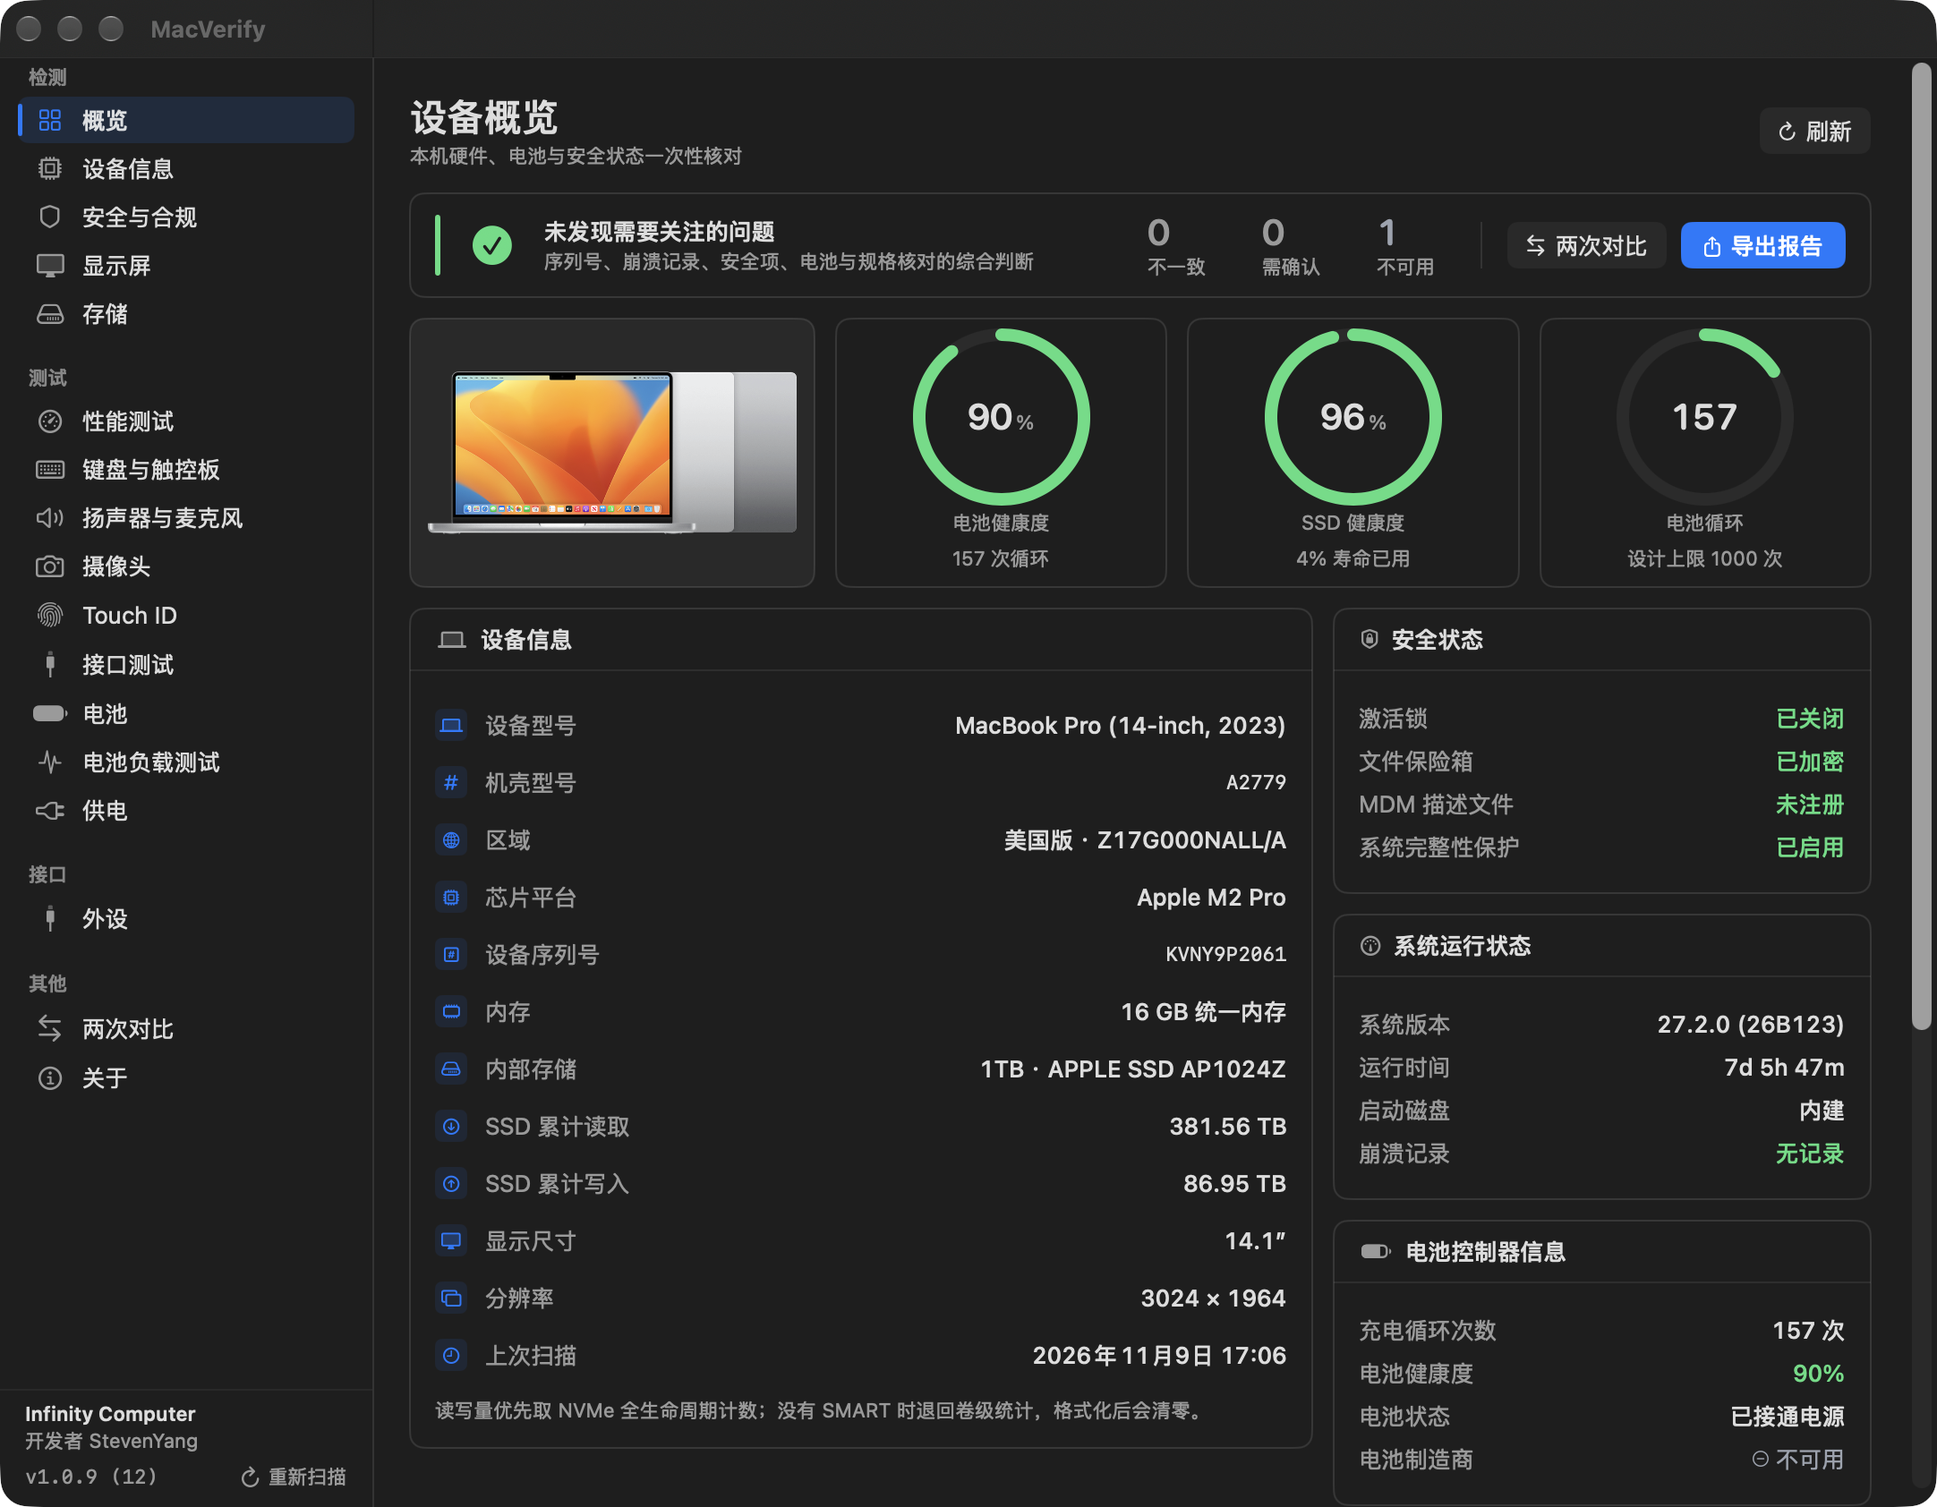
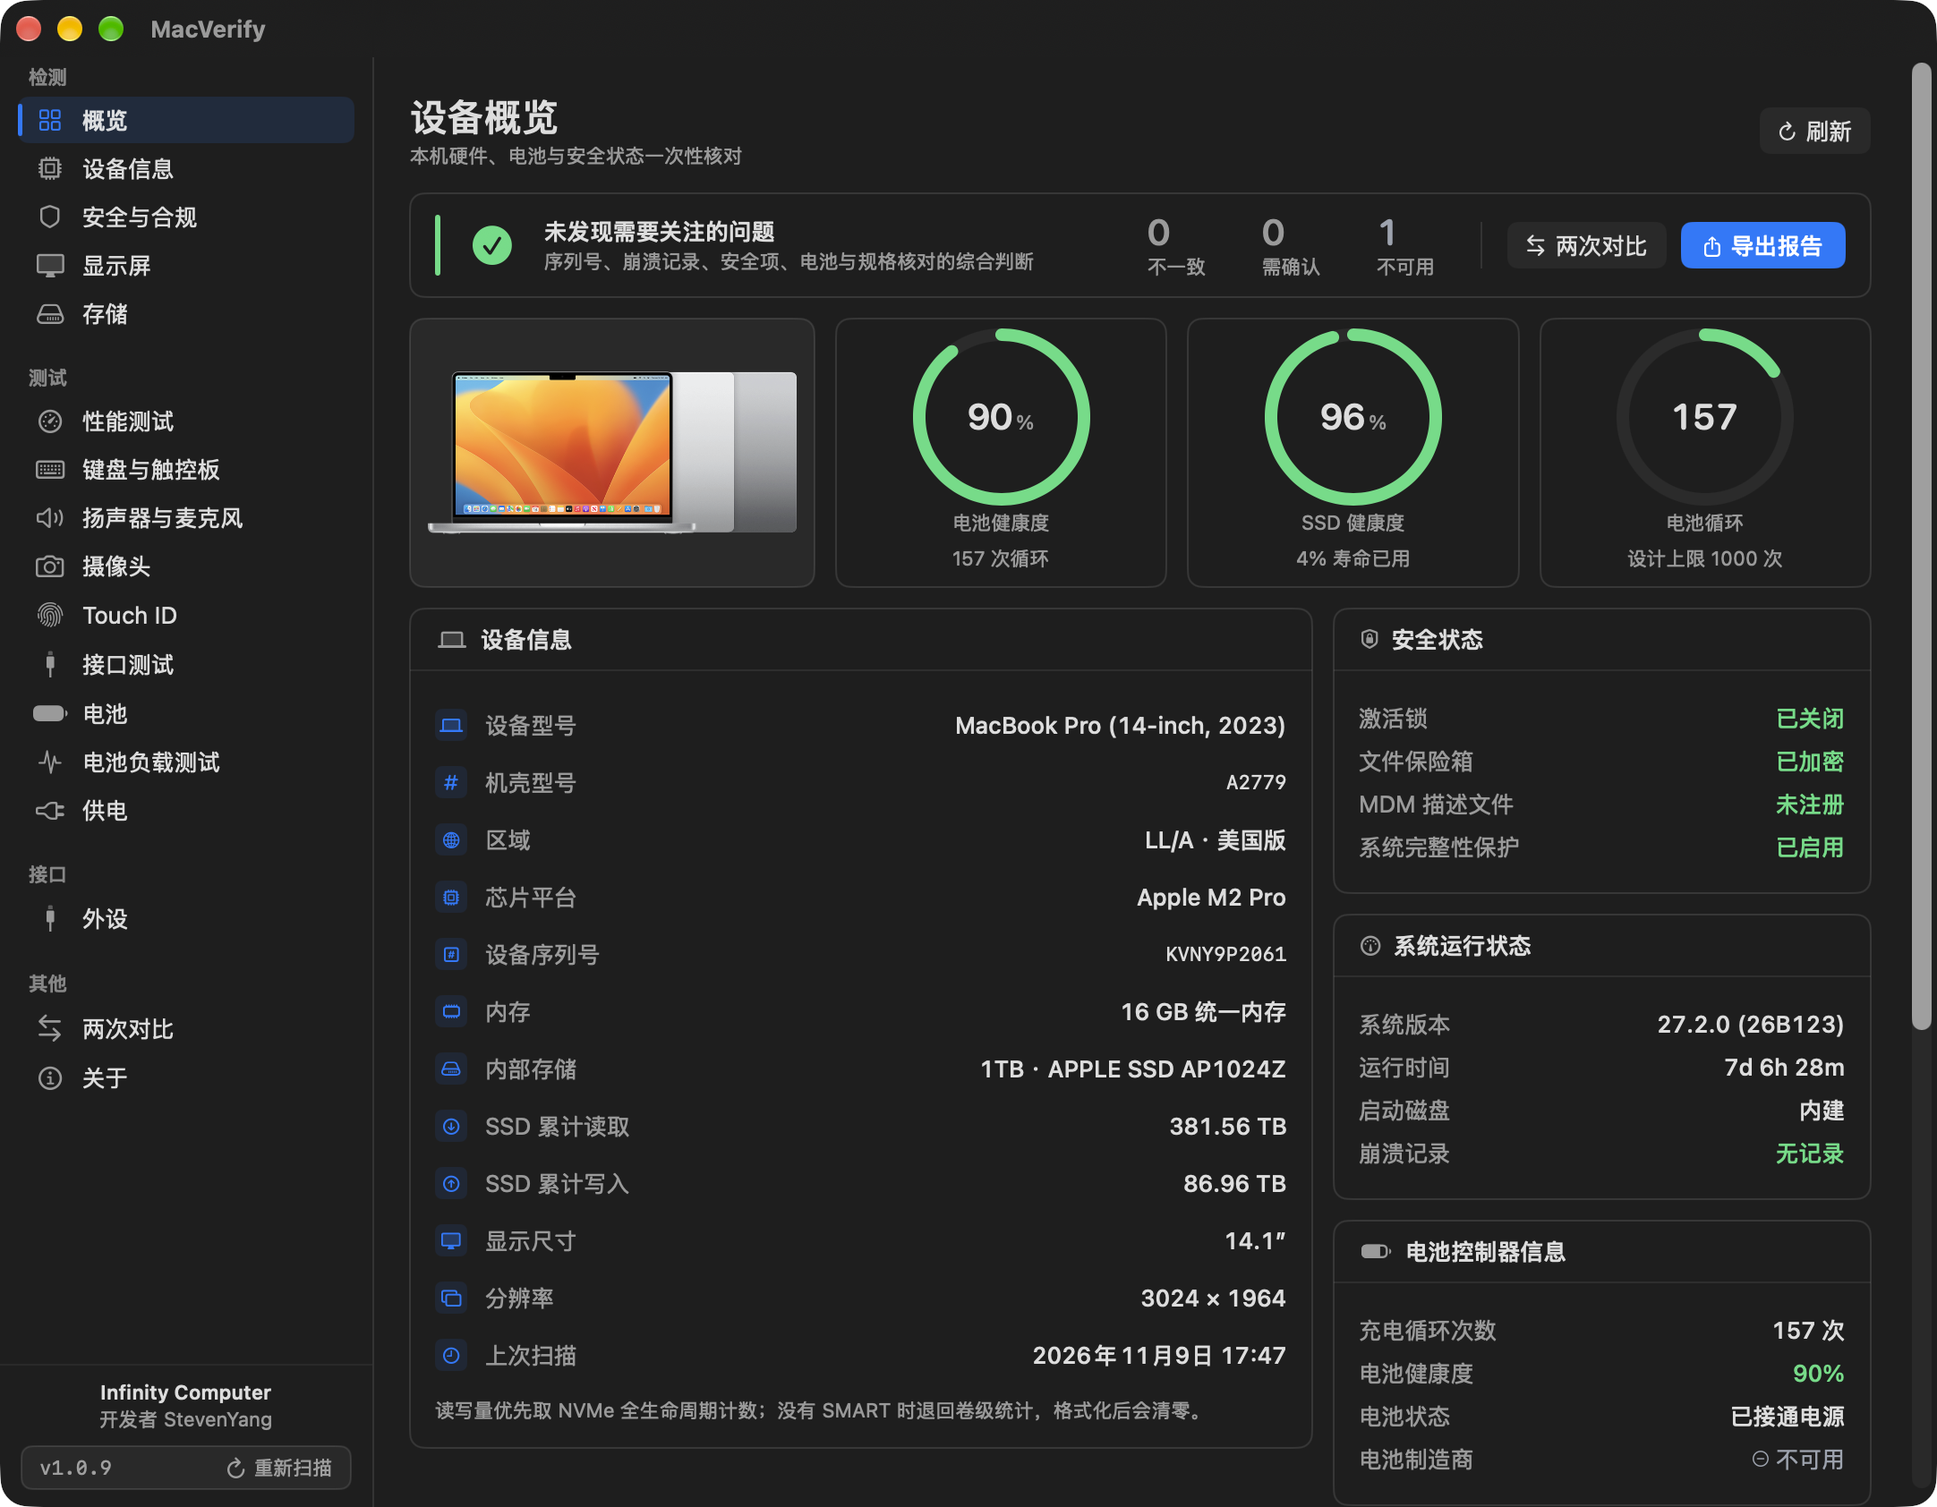
Center the credit, put the region code first, fix 2015-2019 artwork
Sidebar:
- The credit block is centred; it is a signature, not navigation.
- Version and Rescan share one bordered row. The version drops the build
  number: "v1.0.9", not "v1.0.9 (12)".

Overview:
- Region reads code first, then the market: LL/A · 美国版. English uses
  the short form (LL/A · US) instead of "United States".
- MacBook Pro/Air 2015-2019 now use artwork that matches the machine:
  13" and 15" 2015, 13" 2016/2017 two- and four-port, 11"/13" 2015 Air.
  Those entries had been borrowing 2016/2018 photos, which show the wrong
  chassis. Only six assets were needed; the 232 MB Mactracker export stays
  out of the repo and is git-ignored.

Display:
- The size ring is replaced by the model artwork, with the diagonal moved
  above the resolution.
- Fixed a real inconsistency: the card took its name, scale and colour
  profile from NSScreen.main while taking geometry from CGMainDisplayID.
  With an external monitor attached that produced "name: VA2201-FHD,
  panel: Liquid Retina XDR, 3024x1964" on one card. All three now come from
  the screen behind CGMainDisplayID.

Verified: 95 unit tests, localization and baseline linters pass; overview
and display page checked in both appearances; the local app builds and runs
at 1.0.9 (12). Version unchanged, no release.

diff --git a/MacVerify/Models/MacModelCatalog.swift b/MacVerify/Models/MacModelCatalog.swift
@@ -24,8 +24,8 @@ enum MacModelCatalog {
         .init(identifier: "MacBookAir5,2", name: "MacBook Air (13-inch, Mid 2012)", image: "macbook_air_mid_2012", modelNumber: "A1466"),
         .init(identifier: "MacBookAir6,1", name: "MacBook Air (11-inch, 2013/2014)", image: "macbook_air_mid_2012", modelNumber: "A1465"),
         .init(identifier: "MacBookAir6,2", name: "MacBook Air (13-inch, 2013/2014)", image: "macbook_air_mid_2012", modelNumber: "A1466"),
-        .init(identifier: "MacBookAir7,1", name: "MacBook Air (11-inch, Early 2015)", image: "macbook_air_2017_image", modelNumber: "A1465"),
-        .init(identifier: "MacBookAir7,2", name: "MacBook Air (13-inch, 2015/2017)", image: "macbook_air_2017_image", modelNumber: "A1466"),
+        .init(identifier: "MacBookAir7,1", name: "MacBook Air (11-inch, Early 2015)", image: "macbookair_11-inch_2015", modelNumber: "A1465"),
+        .init(identifier: "MacBookAir7,2", name: "MacBook Air (13-inch, 2015/2017)", image: "macbookair_13-inch_2015", modelNumber: "A1466"),
         .init(identifier: "MacBookAir8,1", name: "MacBook Air (Retina, 13-inch, 2018)", image: "macbook_air_2018_image", modelNumber: "A1932"),
         .init(identifier: "MacBookAir8,2", name: "MacBook Air (Retina, 13-inch, 2019)", image: "macbook_air_2018_image", modelNumber: "A1932"),
         .init(identifier: "MacBookAir9,1", name: "MacBook Air (Retina, 13-inch, 2020)", image: "macbook_air_2018_image", modelNumber: "A2179"),
@@ -48,19 +48,19 @@ enum MacModelCatalog {
         .init(identifier: "MacBookPro11,1", name: "MacBook Pro (Retina, 13-inch, 2013/2014)", image: "mbp_13_2018_4ports_image", modelNumber: "A1502"),
         .init(identifier: "MacBookPro11,2", name: "MacBook Pro (Retina, 15-inch, 2013)", image: "mbp_15late2016_image", modelNumber: "A1398"),
         .init(identifier: "MacBookPro11,3", name: "MacBook Pro (Retina, 15-inch, 2014)", image: "mbp_15late2016_image", modelNumber: "A1398"),
-        .init(identifier: "MacBookPro11,4", name: "MacBook Pro (Retina, 15-inch, Mid 2015)", image: "mbp_15late2016_image", modelNumber: "A1398"),
-        .init(identifier: "MacBookPro11,5", name: "MacBook Pro (Retina, 15-inch, Mid 2015, dGPU)", image: "mbp_15late2016_image", modelNumber: "A1398"),
-        .init(identifier: "MacBookPro12,1", name: "MacBook Pro (Retina, 13-inch, Early 2015)", image: "mbp_13_2018_4ports_image", modelNumber: "A1502"),
-        .init(identifier: "MacBookPro13,1", name: "MacBook Pro (13-inch, 2016, 2×TB3)", image: "mbp_15late2016_image", modelNumber: "A1708"),
-        .init(identifier: "MacBookPro13,2", name: "MacBook Pro (13-inch, 2016, 4×TB3)", image: "mbp_15late2016_image", modelNumber: "A1706"),
+        .init(identifier: "MacBookPro11,4", name: "MacBook Pro (Retina, 15-inch, Mid 2015)", image: "mbp_retina_15mid2015_image", modelNumber: "A1398"),
+        .init(identifier: "MacBookPro11,5", name: "MacBook Pro (Retina, 15-inch, Mid 2015, dGPU)", image: "mbp_retina_15mid2015_image", modelNumber: "A1398"),
+        .init(identifier: "MacBookPro12,1", name: "MacBook Pro (Retina, 13-inch, Early 2015)", image: "mbp13_retina_image", modelNumber: "A1502"),
+        .init(identifier: "MacBookPro13,1", name: "MacBook Pro (13-inch, 2016, 2×TB3)", image: "mbp_13late2016_2ports_image", modelNumber: "A1708"),
+        .init(identifier: "MacBookPro13,2", name: "MacBook Pro (13-inch, 2016, 4×TB3)", image: "mbp_13late2016_4ports_image", modelNumber: "A1706"),
         .init(identifier: "MacBookPro13,3", name: "MacBook Pro (15-inch, 2016)", image: "mbp_15late2016_image", modelNumber: "A1707"),
-        .init(identifier: "MacBookPro14,1", name: "MacBook Pro (13-inch, 2017, 2×TB3)", image: "mbp_13_2018_4ports_image", modelNumber: "A1708"),
-        .init(identifier: "MacBookPro14,2", name: "MacBook Pro (13-inch, 2017, 4×TB3)", image: "mbp_13_2018_4ports_image", modelNumber: "A1706"),
+        .init(identifier: "MacBookPro14,1", name: "MacBook Pro (13-inch, 2017, 2×TB3)", image: "mbp_13late2016_2ports_image", modelNumber: "A1708"),
+        .init(identifier: "MacBookPro14,2", name: "MacBook Pro (13-inch, 2017, 4×TB3)", image: "mbp_13late2016_4ports_image", modelNumber: "A1706"),
         .init(identifier: "MacBookPro14,3", name: "MacBook Pro (15-inch, 2017)", image: "mbp_15late2016_image", modelNumber: "A1707"),
         .init(identifier: "MacBookPro15,1", name: "MacBook Pro (15-inch, 2018/2019)", image: "mbp_15_2018_image", modelNumber: "A1990"),
         .init(identifier: "MacBookPro15,2", name: "MacBook Pro (13-inch, 2018/2019, 4×TB3)", image: "mbp_13_2018_4ports_image", modelNumber: "A1989"),
         .init(identifier: "MacBookPro15,3", name: "MacBook Pro (15-inch, 2019)", image: "mbp_15_2018_image", modelNumber: "A1990"),
-        .init(identifier: "MacBookPro15,4", name: "MacBook Pro (13-inch, 2019, 2×TB3)", image: "mbp_13_2018_4ports_image", modelNumber: "A2159"),
+        .init(identifier: "MacBookPro15,4", name: "MacBook Pro (13-inch, 2019, 2×TB3)", image: "mbp_13late2016_2ports_image", modelNumber: "A2159"),
         .init(identifier: "MacBookPro16,1", name: "MacBook Pro (16-inch, 2019)", image: "mbp_16_2019_image", modelNumber: "A2141"),
         .init(identifier: "MacBookPro16,2", name: "MacBook Pro (13-inch, 2020, 4×TB3)", image: "mbp_13_2020_image", modelNumber: "A2251"),
         .init(identifier: "MacBookPro16,3", name: "MacBook Pro (13-inch, 2020, 2×TB3)", image: "mbp_13_2020_image", modelNumber: "A2289"),

diff --git a/MacVerify/Views/RootView.swift b/MacVerify/Views/RootView.swift
@@ -143,9 +143,11 @@ struct RootView: View {
 
             Spacer(minLength: 0)
 
-            VStack(alignment: .leading, spacing: 6) {
+            VStack(spacing: Space.sm) {
                 Divider().opacity(0.5)
-                VStack(alignment: .leading, spacing: 1) {
+
+                // 开发者信息居中：它是署名，不是导航项
+                VStack(spacing: 1) {
                     Text("Infinity Computer")
                         .font(Typo.captionStrong)
                         .foregroundColor(.primary)
@@ -153,13 +155,15 @@ struct RootView: View {
                         .font(Typo.caption)
                         .foregroundColor(.secondary)
                 }
-                .padding(.horizontal, 14)
+                .frame(maxWidth: .infinity)
+                .multilineTextAlignment(.center)
 
-                HStack {
-                    Text("v\(BuildInfo.version) (\(BuildInfo.build))")
+                // 版本号与「重新扫描」同一条带边框的行里：左边版本，右边动作
+                HStack(spacing: Space.sm) {
+                    Text("v\(BuildInfo.version)")
                         .font(Typo.mono)
                         .foregroundColor(.secondary)
-                    Spacer()
+                    Spacer(minLength: Space.xs)
                     Button(action: { system.refresh(); battery.refresh() }) {
                         HStack(spacing: 4) {
                             if system.isScanning {
@@ -174,7 +178,16 @@ struct RootView: View {
                     .buttonStyle(.plain)
                     .disabled(system.isScanning)
                 }
-                .padding(.horizontal, 14)
+                .padding(.horizontal, Space.sm + 2)
+                .padding(.vertical, 5)
+                .background(
+                    RoundedRectangle(cornerRadius: Radius.control, style: .continuous).fill(Surface.well)
+                )
+                .overlay(
+                    RoundedRectangle(cornerRadius: Radius.control, style: .continuous)
+                        .stroke(Surface.border, lineWidth: 1)
+                )
+                .padding(.horizontal, 12)
                 .padding(.bottom, 10)
             }
         }

diff --git a/MacVerify/Models/RegionCatalog.swift b/MacVerify/Models/RegionCatalog.swift
@@ -10,8 +10,10 @@ import Foundation
 struct SalesRegion {
     /// 地区代码，如 "LL"。界面上显示为 LL/A
     let code: String
-    /// 地区名，如「美国版」
+    /// 中文地区名，如「美国版」
     let name: String
+    /// 英文缩写：界面上英文只写 US、HK、CH 这类短代码
+    let abbreviation: String
 }
 
 enum RegionCatalog {
@@ -32,7 +34,7 @@ enum RegionCatalog {
         if code.count >= 2 {
             let two = String(code.suffix(2))
             if twoLetterCodes.contains(two) {
-                return SalesRegion(code: two, name: name(for: two))
+                return SalesRegion(code: two, name: name(for: two), abbreviation: abbreviation(for: two))
             }
         }
 
@@ -41,7 +43,7 @@ enum RegionCatalog {
         let one = String(code.suffix(1))
         if oneLetterCodes.contains(one), code.count >= 3,
            code[code.index(code.endIndex, offsetBy: -2)].isNumber {
-            return SalesRegion(code: one, name: name(for: one))
+            return SalesRegion(code: one, name: name(for: one), abbreviation: abbreviation(for: one))
         }
         return nil
     }
@@ -58,6 +60,30 @@ enum RegionCatalog {
         guard trimmed.hasSuffix("/A") else { return nil }
         let code = String(trimmed.dropLast(2))
         return code.isEmpty ? nil : code
+    }
+
+    /// 英文界面用的两位缩写。与中文名一一对应，新增代码时两边都要补。
+    static func abbreviation(for code: String) -> String {
+        switch code {
+        case "LL": return "US"
+        case "CH": return "CN"
+        case "ZP": return "HK"
+        case "ZA": return "SG"
+        case "TH": return "TH"
+        case "KH": return "KR"
+        case "TA": return "TW"
+        case "AB": return "AE"
+        case "RS": return "RU"
+        case "GR": return "GR"
+        case "IP": return "IT"
+        case "PP": return "PH"
+        case "ZD", "D": return "DE"
+        case "B": return "GB"
+        case "C": return "CA"
+        case "J": return "JP"
+        case "X": return "AU"
+        default: return code
+        }
     }
 
     /// 地区名走本地化函数，切换语言后立即生效。

diff --git a/MacVerify/Views/DisplayView.swift b/MacVerify/Views/DisplayView.swift
@@ -108,18 +108,30 @@ struct DisplayView: View {
                     }
                  )) {
                 HStack(alignment: .center, spacing: Space.xl) {
-                    RingGauge(
-                        title: T("对角线", "Diagonal"),
-                        value: display.inches,
-                        total: 20,
-                        unit: "″",
-                        color: .accentColor,
-                        size: 82
-                    )
+                    // 机型图代替原来的尺寸环；尺寸挪到右侧文字第一行
+                    ZStack {
+                        RoundedRectangle(cornerRadius: Radius.tile, style: .continuous).fill(Surface.well)
+                        if let imageName = MacModelCatalog.imageName(for: system.info.modelIdentifier) {
+                            Image(imageName)
+                                .resizable()
+                                .aspectRatio(contentMode: .fit)
+                                .padding(8)
+                        } else {
+                            Image(systemName: "laptopcomputer")
+                                .font(Typo.icon(28, weight: .light))
+                                .foregroundColor(.secondary)
+                        }
+                    }
+                    .frame(width: 152, height: 94)
+                    .accessibilityElement(children: .ignore)
+                    .accessibilityLabel(T("机型示意图", "Model artwork"))
 
-                    VStack(alignment: .leading, spacing: 3) {
-                        Text(display.resolutionText)
+                    VStack(alignment: .leading, spacing: 2) {
+                        Text(display.inches > 0 ? display.inchText : "—")
                             .font(Typo.metric)
+                            .lineLimit(1)
+                        Text(display.resolutionText)
+                            .font(Typo.title)
                             .lineLimit(1)
                             .minimumScaleFactor(0.8)
                         Text(display.refreshRate > 0

diff --git a/MacVerify/Services/SystemInfoService.swift b/MacVerify/Services/SystemInfoService.swift
@@ -249,7 +249,13 @@ final class SystemInfoStore: ObservableObject {
             display.refreshRate = mode.refreshRate
         }
 
-        if let screen = NSScreen.main {
+        // 名称、缩放倍率、色彩配置必须来自同一块屏（CGMainDisplayID 对应的那块），
+        // 不能混用 NSScreen.main —— 接外接显示器后 NSScreen.main 可能是另一块，
+        // 会出现「名称写外接屏、分辨率写内建屏」这种自相矛盾的卡片。
+        let mainScreen = NSScreen.screens.first {
+            ($0.deviceDescription[NSDeviceDescriptionKey("NSScreenNumber")] as? NSNumber)?.uint32Value == mainID
+        } ?? NSScreen.main
+        if let screen = mainScreen {
             display.name = screen.localizedName
             display.scale = screen.backingScaleFactor
             if let space = screen.colorSpace {

diff --git a/MacVerify/Views/Overview/OverviewFactsCard.swift b/MacVerify/Views/Overview/OverviewFactsCard.swift
@@ -144,9 +144,10 @@ struct OverviewFactsCard: View {
         let partNumber = info.partNumber.trimmingCharacters(in: .whitespacesAndNewlines)
 
         if let region = RegionCatalog.region(forPartNumber: partNumber) {
-            // 区域后面直接跟完整配置编号：只给 LL/A 看不出这台机器是哪一档配置
+            // 代码在前、地区在后：LL/A · 美国版（英文界面 LL/A · US）
             return IconFact(icon: "globe", label: label,
-                            value: "\(region.name) · \(partNumber)",
+                            value: T("\(region.code)/A · \(region.name)",
+                                     "\(region.code)/A · \(region.abbreviation)"),
                             state: .normal)
         }
         if !partNumber.isEmpty {

diff --git a/README.md b/README.md
@@ -157,6 +157,15 @@ DEVELOPER_DIR=/Applications/Xcode.app/Contents/Developer xcodebuild \
   均匀性（25/50/75% 灰）、渐变（8 / 256 级）、文字锐度、可视角度、响应时间；
   空格或点击下一个，← → 切换，Esc 退出。gamma 与「色距」两项未做：它们靠人眼调参数，
   验机时给不出可复核的结论
+- **侧栏署名**：Infinity Computer / 开发者 StevenYang 居中；版本号与「重新扫描」放进同一条描边行，
+  版本只写 `v1.0.9`，不再带构建号
+- **区域格式**：代码在前、地区在后（`LL/A · 美国版`）；英文界面用 US / HK / CH / TH 这类缩写
+- **机型图补齐**：2015–2019 的 MacBook Pro/Air 改用与机型对应的素材
+  （13" 2015、15" 2015、13" 2016/2017 两口与四口、11"/13" 2015 Air），
+  原先这些条目借用了 2016/2018 的照片
+- **显示屏**：尺寸环换成机型图，尺寸移到分辨率上方
+- **修复**：接外接显示器时，显示屏卡片的名称 / 缩放倍率取自另一块屏，
+  与内建屏的分辨率自相矛盾；现在统一取 `CGMainDisplayID` 对应的那块
 - 版本号与发布说明未变（仍为 1.0.9），本轮不发 release
 
 ### 1.0.9 — 工程化与界面重做
